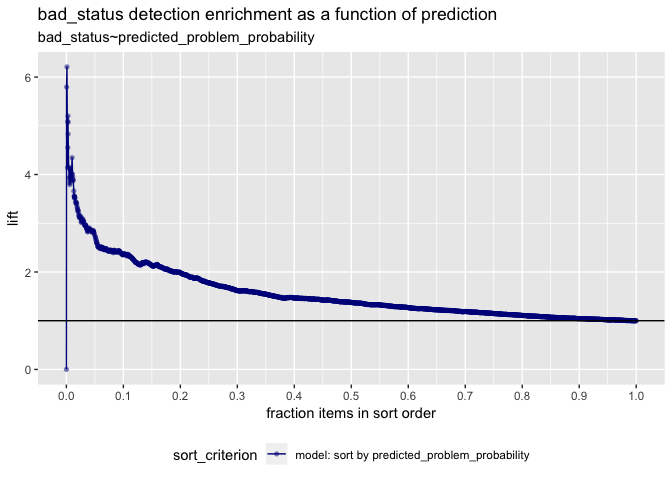
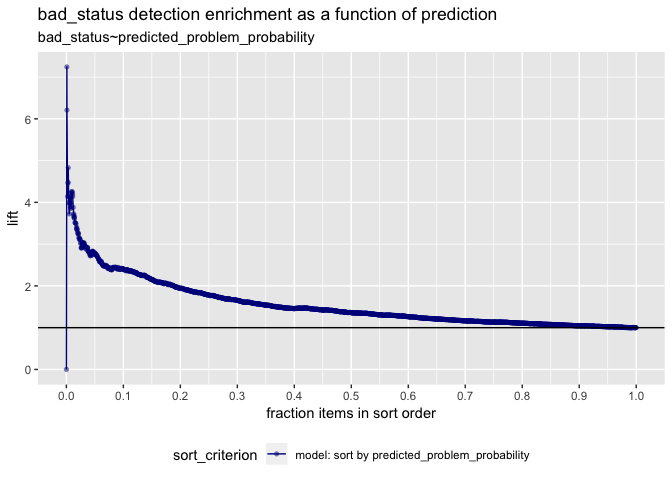
try variations to check robustness of the result

diff --git a/pkg_risk/pkg_risk.md b/pkg_risk/pkg_risk.md
@@ -301,3 +301,37 @@ table(high_risk = d$predicted_problem_probability>0.5,
     ## high_risk FALSE  TRUE
     ##     FALSE 12950   955
     ##     TRUE     12     6
+
+``` r
+# check again with NOTE excluded
+# notice effect is still present
+m2 <- glm(bad_status ~ nUsing,
+           data = d[d$Status!="NOTE", , drop=FALSE],
+           family = binomial)
+summary(m2)
+```
+
+    ## 
+    ## Call:
+    ## glm(formula = bad_status ~ nUsing, family = binomial, data = d[d$Status != 
+    ##     "NOTE", , drop = FALSE])
+    ## 
+    ## Deviance Residuals: 
+    ##     Min       1Q   Median       3Q      Max  
+    ## -1.8296  -0.4138  -0.3769  -0.3431   2.3925  
+    ## 
+    ## Coefficients:
+    ##              Estimate Std. Error z value Pr(>|z|)    
+    ## (Intercept) -2.803106   0.046968  -59.68   <2e-16 ***
+    ## nUsing       0.097028   0.006675   14.54   <2e-16 ***
+    ## ---
+    ## Signif. codes:  0 '***' 0.001 '**' 0.01 '*' 0.05 '.' 0.1 ' ' 1
+    ## 
+    ## (Dispersion parameter for binomial family taken to be 1)
+    ## 
+    ##     Null deviance: 6621.7  on 11566  degrees of freedom
+    ## Residual deviance: 6432.1  on 11565  degrees of freedom
+    ##   (2 observations deleted due to missingness)
+    ## AIC: 6436.1
+    ## 
+    ## Number of Fisher Scoring iterations: 5
